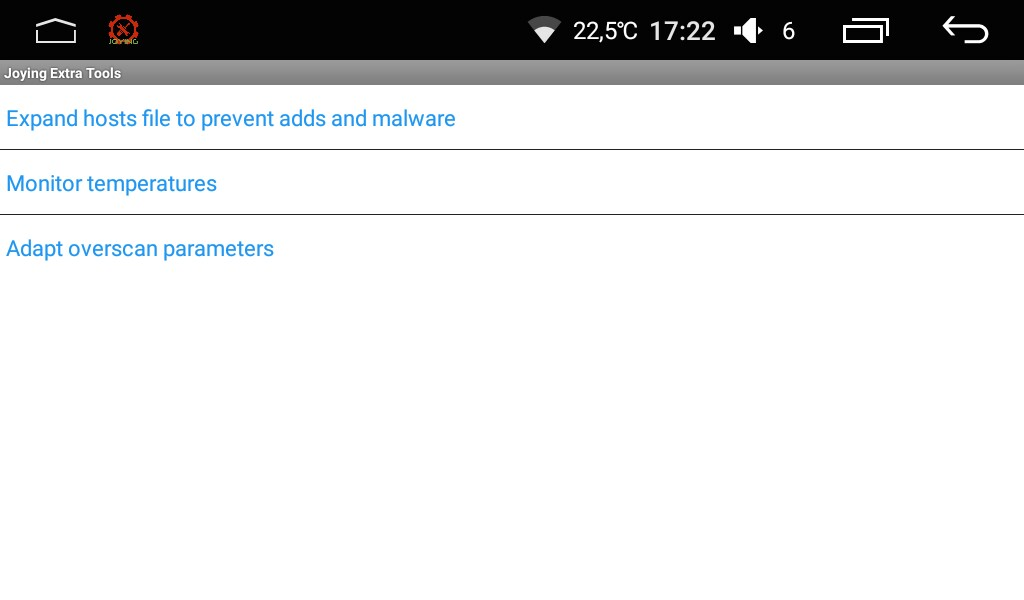
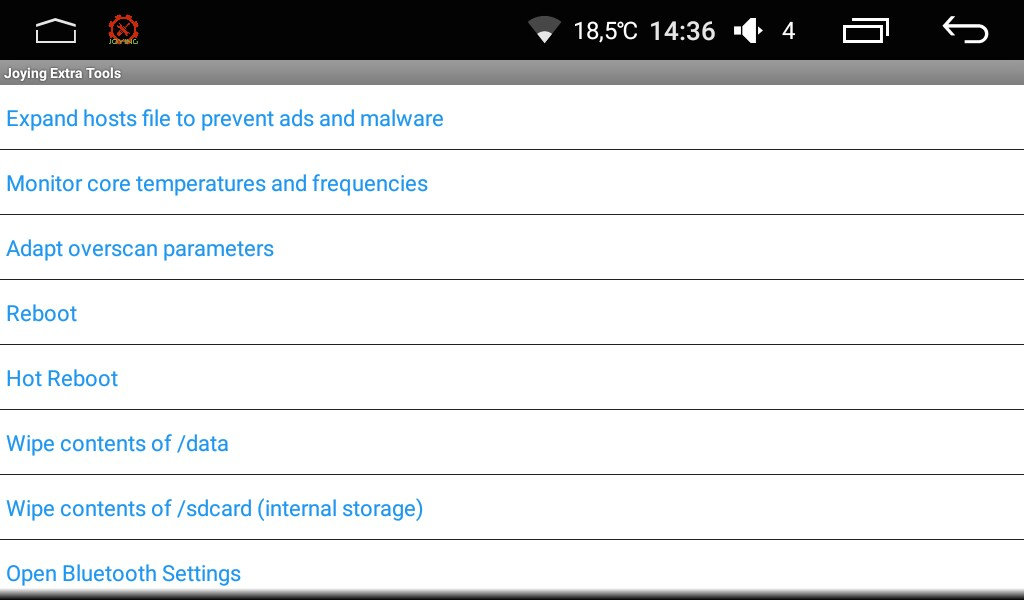
New 1.6 version

diff --git a/Changelog.html b/Changelog.html
@@ -38,15 +38,21 @@
             </ul>
             <p> </p>
         </li>
- <!--       <li>xy August 2017, V 2.0
+<!--       <li>xy August 2017, V 2.0
             <ul>
                 <li>Added button with pull down menu "My Mods". This option can be used to install your own mods, or distribute your mods in a zip to other users. Needs a local xml file (<a href="https://raw.githubusercontent.com/hvdwolf/Joying-RootAssistant/apk/mymods/my-jet-mods.xml" target="mymods">example</a>)</li>
-                <li>In the 1.4 and below options you could only switch on "adb over wifi" as service, meaning till the next reboot. As this should be a user decision and not my decision, I now added the "service" ON option (till next reboot) and the "persistent" ON option (constantly, through reboots)</li>
                 <li>Internal: Full rewrite of menu sctructure. Was a big complex (messy) manual structure. Is now an autogenerated menu structure based on an internal xml file.</li>
                 <li>Internal: Big partial rewrite of jetscript script based on menu structure change.</li>
             </ul>
              <p> </p>
        </li> -->
+         <li>11 August 2017, V 1.6
+            <ul>
+                <li>I use the rom build date in the ROMS as marker for installing certain apks (For example: the 07 July release has a zip date of 5 July, but a build date (ro.builddate) of 29 June 2017). Joying publishes their releases via their <a href="https://www.carjoying.com/blog/joying-head-unit-after-sale-support/59.html">Blog</a>. However, it turns out though that they also publish "intermediate" builds when sending their units to customers. We already detected a 15 June 2017 ROM as well. That requires extra "if-then-else" statements to check on these build dates.</li>
+                <li>Expanded the Temperature measurements screen. It now meausures temperature and CPU frequencies. And it can still save this every 30 seconds to file. As a direct read of CPU frequencies the way I do it also requires root access, the option has now been removed from the top-left menu and placed behind the "Tools and Tweaks" button.</li>
+            </ul>
+             <p> </p>
+       </li>
         <li>03 August 2017, V 1.5
             <ul>
                 <li>In the 1.4 and below options you could only switch on "adb over wifi" as service, meaning till the next reboot. In practice this works clumsy as you sometimes need to reboot multiple times. I switched to persistent now, meaning that it will stay ON through reboots. And if you don't need it: please switch it off.</li>
@@ -54,7 +60,7 @@
                 <li>Add a 07 July "extended navi_app.txt only" SofiaServer, no further mods at all. (see file <a href="https://hvdwolf.github.io/Joying-RootAssistant/navi_app.txt" target="navi">here</a>)</li>
             </ul>
              <p> </p>
-       </li>
+        </li>
         <li>23 July 2017, V 1.3
             <ul>
                 <li>This is a slight modification of the 1.2 version.
